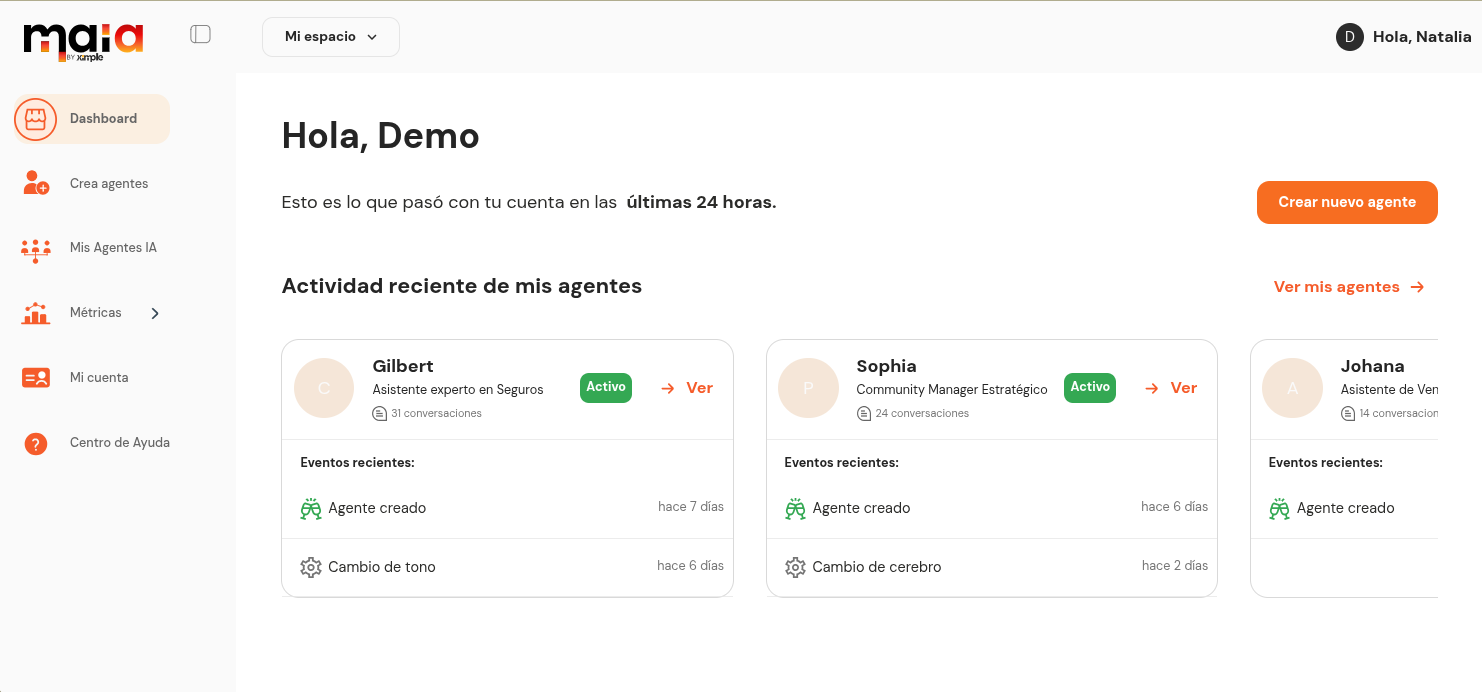
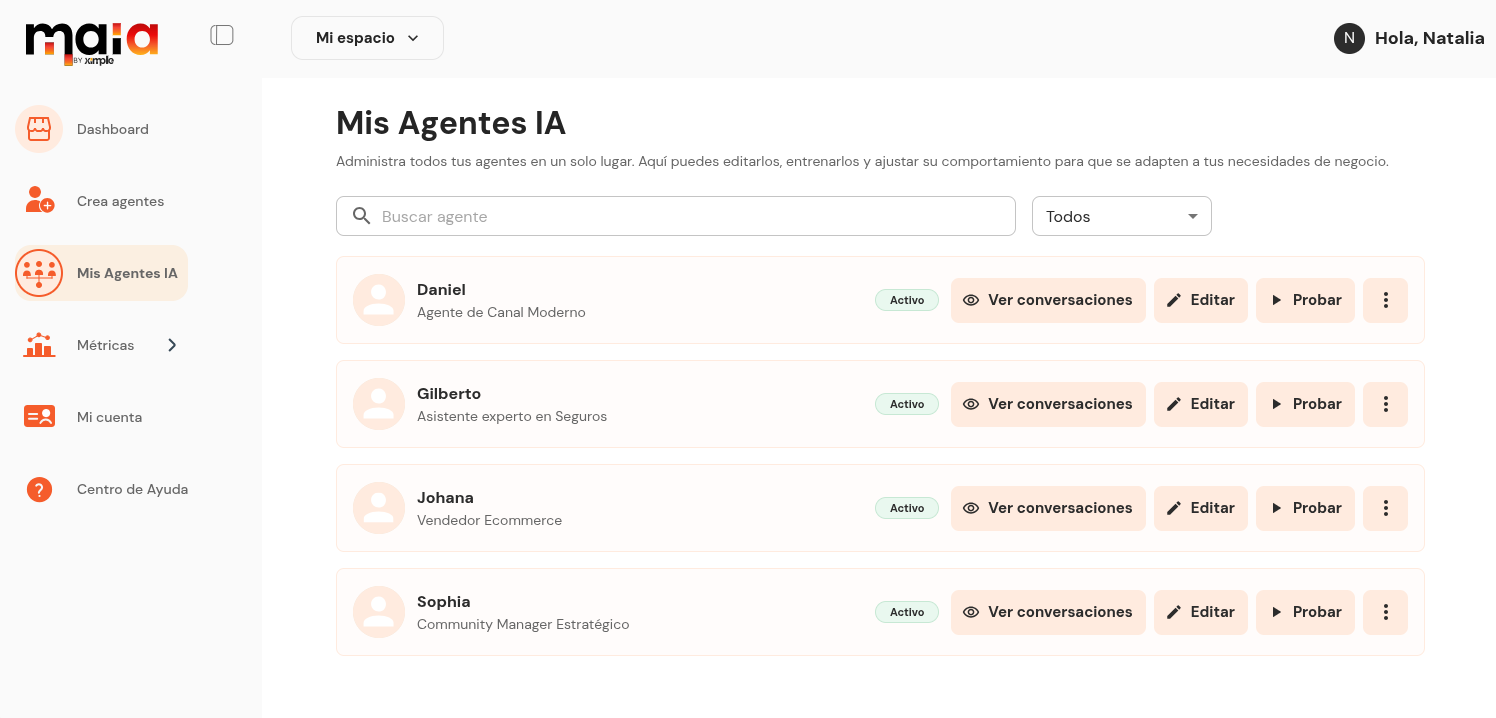
update

diff --git a/src/components/sections/Pricing.tsx b/src/components/sections/Pricing.tsx
@@ -12,7 +12,7 @@ const plans: Plan[] = [
     saving: 'Ahorras $24/año',
     trial: '14 días de prueba gratis',
     features: ['1 agente activo', '100 créditos/mes', '50 MB knowledge base', 'WhatsApp + Web chat', 'Soporte por email'],
-    dim: ['Workflows avanzados'],
+    dim: [],
   },
   {
     name: 'Team', monthly: 199, annual: 179,
@@ -84,7 +84,7 @@ export default function Pricing({ isAnnual, onToggle, onOpenContact }: PricingPr
               {p.trial && (
                 <Box sx={{
                   mt: 1.5, display: 'flex', alignItems: 'center', justifyContent: 'center', gap: 0.75,
-                  py: 1, px: 1.5, borderRadius: 0.5, fontWeight: 700, fontSize: 12, letterSpacing: 0.2,
+                  py: 1, px: 1.5, borderRadius: 0.5, fontWeight: 700, fontSize: 2, letterSpacing: 0.2,
                   color: 'var(--green)', bgcolor: 'var(--green-l)', border: '1px solid rgba(22,163,74,0.25)',
                 }}>
                   <CardGiftcardIcon sx={{ fontSize: 18 }} />
@@ -100,7 +100,7 @@ export default function Pricing({ isAnnual, onToggle, onOpenContact }: PricingPr
                   <Box component="li" key={f} sx={{ fontSize: 14, color: 'var(--muted2)', mb: 0.75, textDecoration: 'line-through' }}>{f}</Box>
                 ))}
               </Box>
-              <Box sx={{ mt: 'auto', pt: 2.5 }}>
+              {/* <Box sx={{ mt: 'auto', pt: 2.5 }}>
                 {p.name === 'Enterprise' ? (
                   <Box component="button" onClick={onOpenContact} sx={{
                     width: '100%', py: 1.2, border: '1px solid var(--orange)', background: 'transparent',
@@ -110,26 +110,26 @@ export default function Pricing({ isAnnual, onToggle, onOpenContact }: PricingPr
                 ) : (
                   <Box
                     component="a"
-                    href={`https://app.maiabuilder.ai/login?plan=${encodeURIComponent(p.name.toLowerCase())}`}
+                    onClick={onOpenContact}
                     sx={{
                       display: 'block', width: '100%', py: 1.2, textAlign: 'center', textDecoration: 'none',
                       borderRadius: 100, fontWeight: 700, fontSize: 14, cursor: 'pointer',
                       transition: 'all 0.2s ease',
                       ...(p.featured
                         ? {
-                            border: '1px solid var(--orange)', background: 'var(--orange)', color: '#fff',
-                            '&:hover': { background: 'var(--orange-h)', borderColor: 'var(--orange-h)' },
-                          }
+                          border: '1px solid var(--orange)', background: 'var(--orange)', color: '#fff',
+                          '&:hover': { background: 'var(--orange-h)', borderColor: 'var(--orange-h)' },
+                        }
                         : {
-                            border: '1px solid var(--orange)', background: 'transparent', color: 'var(--orange)',
-                            '&:hover': { background: 'var(--orange-xl)' },
-                          }),
+                          border: '1px solid var(--orange)', background: 'transparent', color: 'var(--orange)',
+                          '&:hover': { background: 'var(--orange-xl)' },
+                        }),
                     }}
                   >
-                    Elegir plan →
+                    Hablar con ventas →
                   </Box>
                 )}
-              </Box>
+              </Box> */}
             </Box>
           ))}
         </Box>
@@ -137,7 +137,7 @@ export default function Pricing({ isAnnual, onToggle, onOpenContact }: PricingPr
         <Typography align="center" sx={{ mt: 5, color: 'text.secondary', fontSize: 14 }}>
           ¿No sabes cuál elegir?{' '}
           <Box component="a" onClick={onOpenContact} sx={{ color: 'primary.main', fontWeight: 600, cursor: 'pointer', textDecoration: 'none' }}>
-            Agenda una demo gratuita de 30 min
+            Contactanos
           </Box>{' '}y te ayudamos.
         </Typography>
       </Container>

diff --git a/src/components/ContactModal.tsx b/src/components/ContactModal.tsx
@@ -29,10 +29,10 @@ const empty: FormState = {
 };
 
 export default function ContactModal({ open, onClose, tipo = 'demo' }: ContactModalProps) {
-  const [form, setForm]       = useState<FormState>(empty);
-  const [errors, setErrors]   = useState<Partial<Record<keyof FormState, string>>>({});
+  const [form, setForm] = useState<FormState>(empty);
+  const [errors, setErrors] = useState<Partial<Record<keyof FormState, string>>>({});
   const [submitting, setSubmitting] = useState(false);
-  const [status, setStatus]   = useState<{ kind: 'success' | 'error'; text: string } | null>(null);
+  const [status, setStatus] = useState<{ kind: 'success' | 'error'; text: string } | null>(null);
 
   useEffect(() => {
     if (open) {
@@ -81,12 +81,12 @@ export default function ContactModal({ open, onClose, tipo = 'demo' }: ContactMo
     }
     setSubmitting(true);
     const { ok, data } = await postLead({
-      nombre:    form.nombre.trim(),
-      empresa:   form.empresa.trim(),
-      email:     form.email.trim(),
-      telefono:  form.telefono.replace(/\s/g, ''),
+      nombre: form.nombre.trim(),
+      empresa: form.empresa.trim(),
+      email: form.email.trim(),
+      telefono: form.telefono.replace(/\s/g, ''),
       industria: form.industria.trim(),
-      mensaje:   form.mensaje.trim(),
+      mensaje: form.mensaje.trim(),
       tipo,
     });
     setSubmitting(false);
@@ -107,7 +107,7 @@ export default function ContactModal({ open, onClose, tipo = 'demo' }: ContactMo
       maxWidth="sm"
       fullWidth
       aria-labelledby="contact-modal-title"
-      PaperProps={{ sx: { borderRadius: 3 } }}
+      PaperProps={{ sx: { borderRadius: 1 } }}
     >
       <DialogTitle id="contact-modal-title" sx={{ pr: 6, pt: 3.5, pb: 0.5 }}>
         <Typography variant="h5" component="div" fontWeight={700} letterSpacing="-0.02em">

diff --git a/src/components/sections/Hero.tsx b/src/components/sections/Hero.tsx
@@ -157,7 +157,7 @@ export default function Hero({ onOpenContact }: HeroProps) {
           onMouseLeave={() => setPaused(false)}
           sx={{
             position: 'relative',
-            maxWidth: 980, mx: 'auto',
+            maxWidth: 1100, mx: 'auto',
             borderRadius: 1, overflow: 'hidden',
             boxShadow: '0 12px 40px rgba(0,0,0,0.10), 0 4px 8px rgba(0,0,0,0.04)',
             border: '1px solid var(--border)',
@@ -177,7 +177,7 @@ export default function Hero({ onOpenContact }: HeroProps) {
               sx={{
                 position: 'absolute', inset: 0,
                 width: '100%', height: '100%',
-                objectFit: 'cover', objectPosition: 'center top',
+                objectFit: 'contain', objectPosition: 'center top',
                 opacity: i === slide ? 1 : 0,
                 transition: 'opacity 0.6s ease',
                 pointerEvents: 'none',

diff --git a/src/components/sections/Addons.tsx b/src/components/sections/Addons.tsx
@@ -137,8 +137,8 @@ export default function Addons() {
                         }}
                       >
                         <Typography variant="body2" sx={{ color: 'var(--text2)' }}>{pack.label}</Typography>
-                        <Typography variant="caption" sx={{ color: 'var(--muted)' }}>{pack.description}</Typography>
-                        <Typography sx={{ fontWeight: 800, fontSize: 16, color: 'var(--black)', whiteSpace: 'nowrap' }}>
+                        <Typography variant="caption" sx={{ color: 'var(--muted)', fontSize: 1 }}>{pack.description}</Typography>
+                        <Typography sx={{ fontWeight: 800, fontSize: 15, color: 'var(--black)', whiteSpace: 'nowrap' }}>
                           {pack.price}
                         </Typography>
                       </Box>
